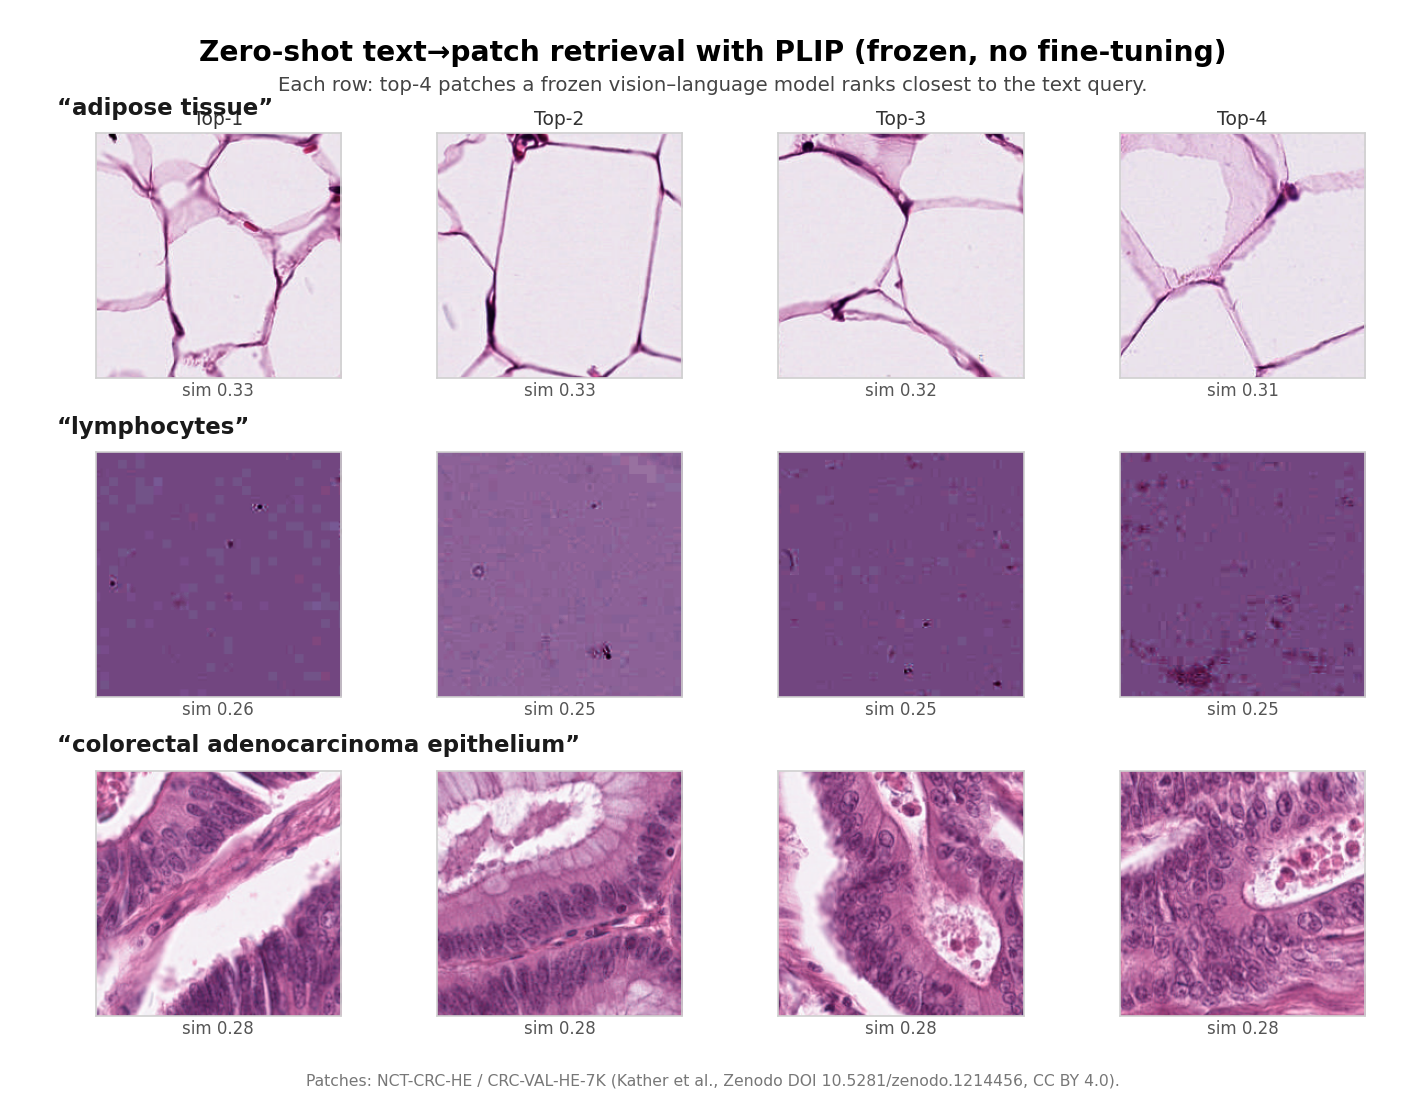
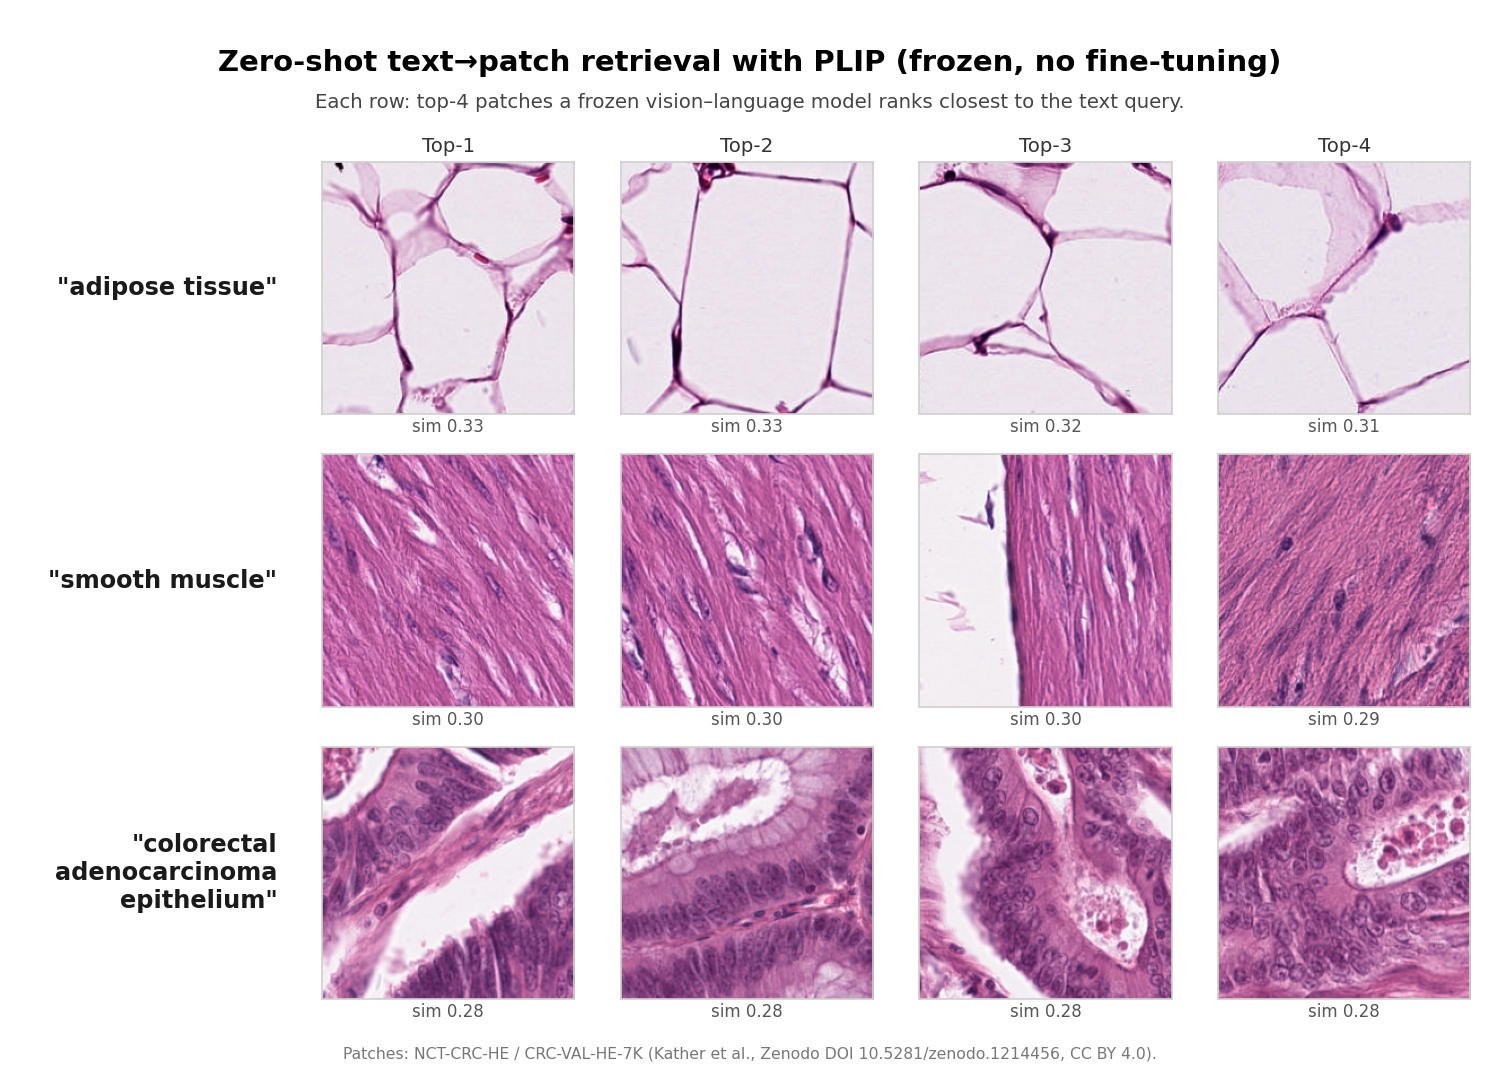
Improve retrieval hero figure layout and tissue mix
Move prompt labels to the left margin so they no longer overlap the Top-k
column headers, and swap the second row to "smooth muscle" for stronger
visual contrast between the three tissue types.

diff --git a/README.md b/README.md
@@ -8,7 +8,7 @@ PathVLM-LiteBench is a lightweight, CPU-compatible and laptop-GPU accelerated to
 This project focuses on patch-level pathology image-text retrieval, zero-shot classification, prompt sensitivity analysis, embedding caching, and visualization reports using frozen CLIP/PLIP-style vision-language models, with CUDA acceleration when available.
 
 <p align="center">
-  <img src="docs/assets/retrieval_hero.png" alt="Zero-shot text-to-patch retrieval with PLIP: top-4 colorectal histology patches retrieved for the prompts 'adipose tissue', 'lymphocytes', and 'colorectal adenocarcinoma epithelium'." width="780">
+  <img src="docs/assets/retrieval_hero.png" alt="Zero-shot text-to-patch retrieval with PLIP: top-4 colorectal histology patches retrieved for the prompts 'adipose tissue', 'smooth muscle', and 'colorectal adenocarcinoma epithelium'." width="780">
 </p>
 
 <p align="center"><sub>